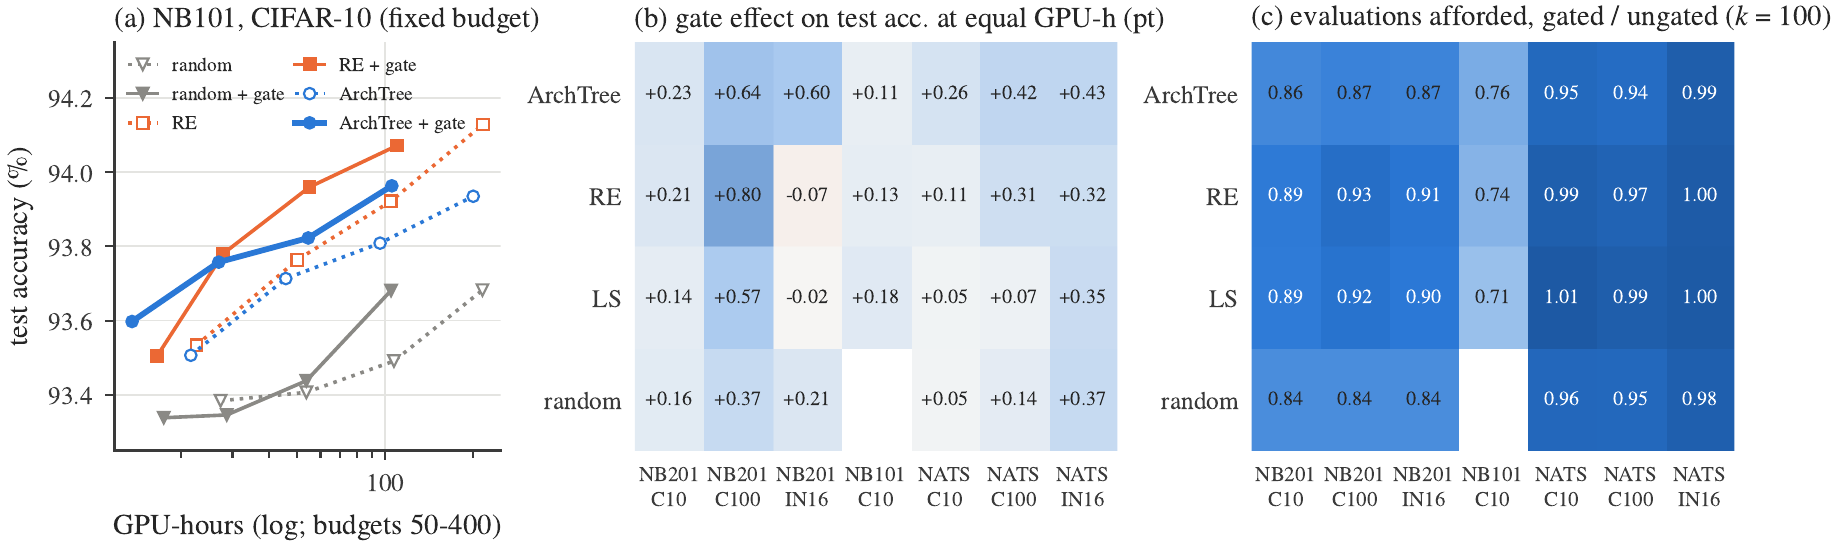
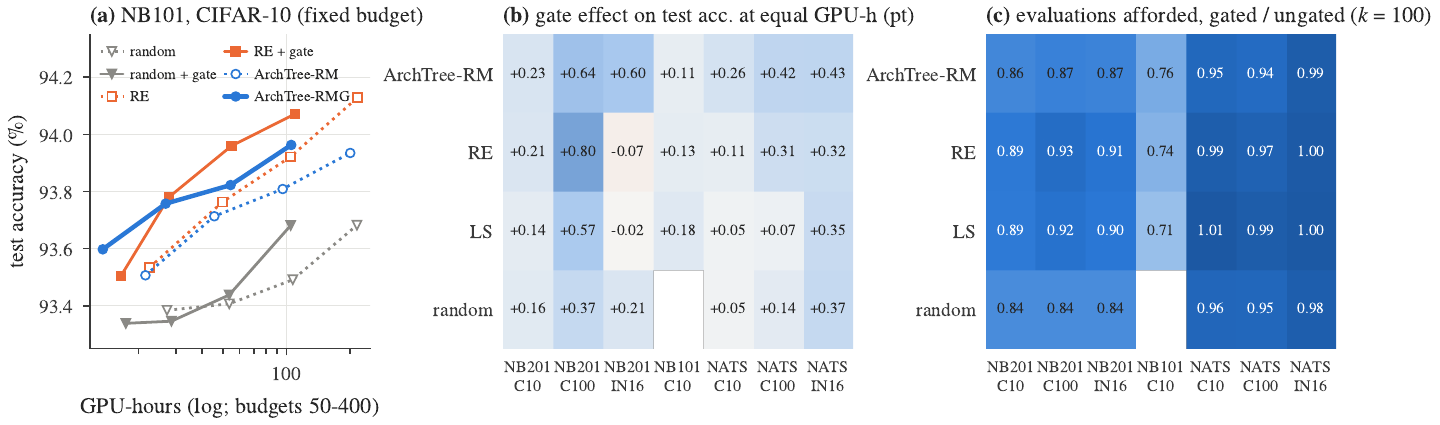
README: add paper section, align with manuscript, refresh figures

diff --git a/README.md b/README.md
@@ -14,7 +14,7 @@
 ![Tests](https://img.shields.io/badge/paired%20tests-1%2C404%20(Holm)-555555)
 ![Status](https://img.shields.io/badge/experiments-complete-brightgreen)
 
-**[Highlights](#-highlights)** · **[Objectives](#-objectives-and-outcomes)** · **[Method](#-method)** · **[Data](#-benchmarks-and-data)** · **[Results](#-results)** · **[Statistics](#-statistical-evidence)** · **[Quick start](#-quick-start)** · **[Reproduce](#-reproducing-the-study)**
+**[Paper](#-paper-and-supplementary-material)** · **[Highlights](#-highlights)** · **[Objectives](#-objectives-and-outcomes)** · **[Method](#-method)** · **[Data](#-benchmarks-and-data)** · **[Results](#-results)** · **[Statistics](#-statistical-evidence)** · **[Quick start](#-quick-start)** · **[Reproduce](#-reproducing-the-study)**
 
 </div>
 
@@ -43,6 +43,27 @@ which parts actually matter. It covers 3 benchmarks, 9 external baselines, 12 se
 
 ---
 
+## 📄 Paper and supplementary material
+
+The study is written up as a journal manuscript (submitted to *Sādhanā – Academy Proceedings in Engineering
+Sciences*, Springer / Indian Academy of Sciences; under review).
+
+| File | Contents |
+|---|---|
+| [`paper/main.pdf`](paper/main.pdf) | manuscript: 20 pages, 17 figures, 8 tables, 1 algorithm |
+| [`paper/supplementary/supp.pdf`](paper/supplementary/supp.pdf) | supplementary material: 26 pages, 42 tables (S1–S42), 16 figures (S1–S16) |
+| [`paper/main.tex`](paper/main.tex), [`paper/supplementary/supp.tex`](paper/supplementary/supp.tex) | LaTeX sources (journal class `sadhana.cls` included) |
+| [`paper/make_figures.py`](paper/make_figures.py) | draws every manuscript figure from the result CSVs |
+| [`paper/supplementary/make_supp_tables.py`](paper/supplementary/make_supp_tables.py), [`make_supp_figures.py`](paper/supplementary/make_supp_figures.py) | write every supplementary table and figure from the result CSVs |
+
+The supplement holds what the page limit left out: the detailed search loop, the status of the formal
+statements, every per-cell result and paired test (fixed budget, equal GPU-hours, gate grid, ablations,
+NAS-Bench-101, LLM studies, hardware), the seeds, the reproducibility checks and the data checksums. No number
+in either document is typed by hand. The rebuild commands are under
+[Reproducing the study](#-reproducing-the-study).
+
+---
+
 ## ✨ Highlights
 
 | | Finding | Evidence |
@@ -52,7 +73,7 @@ which parts actually matter. It covers 3 benchmarks, 9 external baselines, 12 se
 | 🔌 | **The gate is portable.** It raises the accuracy of 25 of 27 proposer–benchmark cells: ArchTree +0.38, RE +0.26, random +0.22, local search +0.19 points | [Transfer](#7-transfer-to-nas-bench-101-and-portability-of-the-gate) |
 | 🔍 | **Zero-cost proxies are training-cost detectors in cell spaces** (Spearman ρ with training time 0.78 NB201, 0.63 NB101) **but not in a width space** (0.20 NATS-SSS) | [Why the gate works](#6-why-the-gate-works-proxies-as-cost-detectors) |
 | 📐 | **A closed-form gate-cost criterion,** `r_PA·r_PD − r_DA`, predicted *before any search* that a cost penalty would hurt, on 7 of 7 benchmark–dataset pairs. Measured: 16 losses / 0 wins in 21 cells | [Gate-cost criterion](#5-the-gate-cost-criterion) |
-| 🤖 | **An LLM prior speeds up only the start of the search.** It gets within 1 point of the final accuracy after 5.0 vs 15.5 evaluations (C10) and 15.6 vs 30.8 (C100). This comes from general architectural knowledge, not memorised benchmark tables, and final accuracy never changes | [LLM prior](#9-what-does-the-llm-prior-add) |
+| 🤖 | **An LLM prior speeds up only the start of the search.** It gets within 1 point of the best accuracy in the space after 5.0 vs 15.5 evaluations (C10) and 15.6 vs 30.8 (C100). Prompt controls point to general knowledge about operations rather than memorised benchmark tables; final accuracy never changes | [LLM prior](#9-what-does-the-llm-prior-add) |
 | 🌳 | **The tree structure adds nothing beyond deduplication.** Trie vs flat bandit with a hash set: 0 of 12 cells differ | [Ablations](#8-ablations-what-the-parts-contribute) |
 
 ---
@@ -71,7 +92,7 @@ whether an LLM prior and the tree structure add anything on top.
 | C4 | Formal statements | T1 (O(L) insert) and T2 (no re-evaluation) hold. T4 (pruning keeps the optimum) is false as first stated, so pruning is presented as a heuristic | 🟡 partly met |
 | C5 | Evaluation on standard benchmarks | NAS-Bench-201 (3 datasets), NAS-Bench-101 (TensorFlow-free reader), NATS-Bench SSS and HW-NAS-Bench | ✅ exceeded |
 | C6 | TCR coverage metric | Implemented and reported; hardware coverage defined as HV/HV\* | ✅ minor |
-| **C7** | **LLM warm-start prior** | 2–3× faster early convergence on CIFAR-10/100 (Holm-significant), none on ImageNet16-120, same final accuracy. Knowledge controls rule out memorisation and a pure size heuristic | 🟡 partly met |
+| **C7** | **LLM warm-start prior** | 2–3× faster early convergence on CIFAR-10/100 (Holm-significant), none on ImageNet16-120, same final accuracy. Knowledge controls argue against memorisation and against a pure size heuristic | 🟡 partly met |
 | **C8** | **Zero-cost proxy ensemble as a gate** | Label-free gate (τ 0.63–0.68) as good as a supervised one that costs 1,500 labels; 53% of GPU-hours saved; helps every proposer | ✅ **main contribution** |
 | **C9** | **Hardware-aware search + TCR-H** | Device Pareto fronts barely overlap (Jaccard ≈ 0.13), yet a transferred front keeps ≈ 98% of the hypervolume; search ties NSGA-II-style and random (96/96) | 🟡 analysis only |
 | new | Fair compute: equal GPU-hours | 1,128 runs, 14 arms, 3 benchmarks: 0 losses; tied-best / 2nd / 4th, inside the CD everywhere | ✅ met |
@@ -87,18 +108,18 @@ Full goal history (original plan → final outcome): [`ReadMe/goalREADME.md`](Re
 ### Overall workflow
 
 <p align="center">
-  <img src="Architerctural%20Designs/ArchTree_Final_Figures_BW/Paper_Fig_Overall_Workflow_BW_600dpi.png" width="100%" alt="ArchTree overall workflow"/>
+  <img src="ReadMe/assets/figures/fig1_overview.png" width="100%" alt="ArchTree overall workflow"/>
 </p>
 
-Benchmarks supply tabulated accuracy, training time and device latency. The search loop proposes,
-deduplicates and gates candidates. Validation accuracy drives the search and test accuracy is only reported.
-All methods are compared at equal GPU-hours with paired and rank-based statistics. The LLM prior (dashed) is
-switched off in the headline system. *ArchTree v2* in the diagram is the final system, ArchTree-RMG.
+The four benchmarks provide look-up tables of accuracy, training time and latency. ArchTree-RMG generates
+candidates, drops repeats and screens the rest with the gate. Only validation accuracy steers the search; test
+accuracy is reported at the end. Every method gets the same GPU-hour budget and is compared with paired and
+rank-based tests. The optional LLM prior (dashed box) is off in the headline system.
 
 ### The search loop
 
 <p align="center">
-  <img src="Architerctural%20Designs/ArchTree_Final_Figures_BW/Paper_Fig_Algorithm_Loop_BW_600dpi.png" width="78%" alt="ArchTree-RMG search loop"/>
+  <img src="ReadMe/assets/figures/fig_search_loop.png" width="78%" alt="ArchTree-RMG search loop"/>
 </p>
 
 | Step | Block | What it does |
@@ -309,16 +330,18 @@ candidates (ZiCo-style, RE + ZC warm-up) get there sooner, which again points to
   <sub>Test accuracy within an equal GPU-hour budget H = k·τ̄ (mean ± s.e., 12 seeds). Solid: label-free gate (or ZC warm-up); dotted / dashed: ungated or cost-penalised. The gate lifts every proposer; penalising cost lowers accuracy on all seven benchmark–dataset pairs.</sub>
 </p>
 
-**ArchTree-RMG vs every arm** (Wilcoxon, Holm within arm, up to 21 cells = 7 benchmark–dataset pairs × 3 budgets):
+**ArchTree-RMG vs every arm** (Wilcoxon, Holm within each arm over its cells; up to 21 cells = 7 benchmark–dataset pairs × 3 budgets, 18 for arms not run on NB101):
 
 | vs | Mean Δ (points) | Wins / ties / losses |
 |---|---:|---|
 | random + cost penalty (λ = 1) | +1.36 | 15 / 3 / 0 |
 | ArchTree-RM + cost penalty (λ = 1) | +1.01 | 16 / 5 / 0 |
 | random, no gate | +0.67 | 10 / 11 / 0 |
-| random + same gate | +0.50 | 6 / 12 / 0 |
+| random + cost penalty (λ = 0.25) | +0.51 | 6 / 12 / 0 |
+| random + same gate | +0.49 | 6 / 12 / 0 |
 | ArchTree-RM, no gate | +0.38 | 2 / 19 / 0 |
 | RE, no gate | +0.36 | 1 / 20 / 0 |
+| ArchTree-RM + cost penalty (λ = 0.25) | +0.16 | 0 / 18 / 0 |
 | LS, no gate | +0.16 | 0 / 21 / 0 |
 | ArchTree-RM + #params gate | +0.08 | 1 / 20 / 0 |
 | RE + same gate · LS + same gate · RE + ZC warm-up | +0.10 · −0.03 · −0.07 | 0 / 21 / 0 each |
@@ -436,14 +459,14 @@ but **under-predicts the size of the losses several-fold, so only the sign and t
 
 <p align="center">
   <img src="ReadMe/assets/figures/fig12_llm.png" width="88%" alt="LLM prior"/><br/>
-  <sub>(a) Evaluations to within 1 point of the final accuracy (budget 100). (b) Cohen's d of four comparisons on four metrics. (c) α sweep. (d) Operation-ranking quality under four prompts / priors.</sub>
+  <sub>(a) Evaluations to within 1 point of the best accuracy in the space (budget 100). (b) Cohen's d of four comparisons on four metrics. (c) α sweep. (d) Operation-ranking quality under four prompts / priors.</sub>
 </p>
 
-**Speed (budget 100, evaluations needed to get within 1 point of the final accuracy):**
+**Speed (budget 100, real evaluations needed to get within 1 point of the best validation accuracy in the space; a seed that never gets there counts at the end of its run):**
 
 | | CIFAR-10 | CIFAR-100 | ImageNet16-120 |
 |---|---|---|---|
-| LLM prior / size prior / described prompt / off | **5.0** / 16.4 / 7.8 / 15.5 | **15.6** / 19.7 / 25.4 / 30.8 | 23.2 / 31.3 / 19.4 / **17.8** |
+| LLM prior / size prior / described prompt / off | **5.0** / 16.4 / 7.8 / 15.5 | **15.6** / 19.7 / 25.4 / 30.8 | 23.2 / 31.2 / 19.4 / **17.8** |
 | LLM vs off | p_Holm = 0.047, d ≈ 1.0 | p_Holm = 0.047 | n.s. |
 | Final accuracy | tie | tie | tie |
 
@@ -462,7 +485,7 @@ but **under-predicts the size of the losses several-fold, so only the sign and t
   (p_Holm = 0.003, d = 4.0). The LLM contributes more than "bigger is better", but only at the start.
 * At 10 min per evaluation the speed-up is 0.8 h instead of 2.6 h on C10. The model's own response time is at
   most 23 s per run.
-* **α sweep:** 17 of 24 settings favour the prior, but 0 of 48 tests are significant after Holm.
+* **α sweep:** 17 of 24 settings favour the prior, but none is significant after Holm (48 tests, of which 24 are distinct because all runs with α ≥ 0.2 coincide).
   `gpt-oss-120b` ranks slightly better (ρ 0.61 vs 0.60) but does not search better.
 
 ### 10. Hardware-aware search (HW-NAS-Bench)
@@ -517,10 +540,10 @@ but **under-predicts the size of the losses several-fold, so only the sign and t
 | Family | Tests | p < 0.05 (raw) | Holm-significant | Direction |
 |---|---:|---:|---:|---|
 | Fixed budget vs 9 baselines | 108 | 38 | 20 | 20 RMG wins |
-| Same gate, 6 proposers | 240 | 100 | 47 | 47 RMG wins |
+| Same gate, 5 other proposers | 240 | 100 | 47 | 47 ArchTree wins |
 | Equal GPU-hours, 3 benchmarks | 261 | 96 | 57 | 57 RMG wins |
 | NB101, same gate | 32 | 16 | 15 | 14 wins, 1 loss (RE) |
-| NB101, equal evaluations | 36 | 13 | 11 | 11 RMG wins |
+| NB101, equal evaluations | 36 | 13 | 11 | 11 ArchTree wins |
 | Held-out design ablation | 48 | 10 | 4 | all favour RMG |
 | Trie vs flat bandit | 24 | 3 | 1 | trie better |
 | Proxy subsets | 48 | 6 | 2 | SVD entropy alone worse |
@@ -580,7 +603,7 @@ accuracy. Friedman rejects equal performance in every comparison (p < 10⁻⁷).
 needed only for the zero-cost proxies.
 
 ```powershell
-git clone <repository-url> archtree-llm
+git clone https://github.com/Imaadhajwane/Arch-Tree-LLM.git archtree-llm
 cd archtree-llm
 Set-ExecutionPolicy -Scope Process -ExecutionPolicy RemoteSigned
 
@@ -668,11 +691,23 @@ on the first error and **skips finished runs on a rerun**. `tools/preflight.py` 
 * One `config.yaml`, with values unchanged since the paper runs.
 * Fixed seeds, and every run seeds its own RNGs: 1 vs 3 workers give identical results.
 * Deterministic benchmark lookups and fixed proxy batches.
-* SHA-256 checksums of every data file.
+* SHA-256 checksums of the benchmark files and derived caches (supplementary Table S41).
 * An exact package lock, written to `outputs/final/repro/` by step 19.
 * A release bundle (`-Plan report` → `release/archtree_repro_bundle.zip`) that never contains `.env`.
 
-**Paper figures:** `python paper/make_figures.py` re-plots every manuscript figure from the result CSVs.
+**Paper and supplement.** After `-Plan report`, rebuild the documents from the result CSVs:
+
+```powershell
+cd paper
+python make_figures.py ..\outputs figs analysis\out ..\data      # 15 data figures of the manuscript
+pdflatex main.tex; pdflatex main.tex                                 # paper/main.pdf
+cd supplementary
+python make_supp_tables.py ..\..\outputs tables                   # tables S2-S42 as LaTeX
+python make_supp_figures.py ..\..\outputs figs                    # figures S2-S16
+pdflatex supp.tex; pdflatex supp.tex; pdflatex supp.tex              # paper/supplementary/supp.pdf
+```
+
+`paper/analysis/derive.py` writes the whole-space statistics in `paper/analysis/out/` from the benchmark caches.
 The pipeline's own gallery (50 figures, each with a CSV of the plotted points) is in `plots/figures/`.
 Optional dashboard: `python frontend/backend.py` → http://localhost:5000.
 
@@ -696,6 +731,8 @@ archtree-llm/
 ├── plots/                        plot_results.py, figure_export.py, figures/ (gallery + data CSVs)
 ├── utils/                        Groq client, key pool, rate limiter, checkpointing
 ├── frontend/                     optional dashboard
+├── paper/                        manuscript (main.tex / main.pdf), figure scripts, figs/
+│   └── supplementary/            supplementary material (supp.tex / supp.pdf), table + figure scripts
 │
 ├── data/                         benchmark files + derived caches   (see data/README.md)
 ├── third_party/                  README.md (clone HW-NAS-Bench here; not committed)
